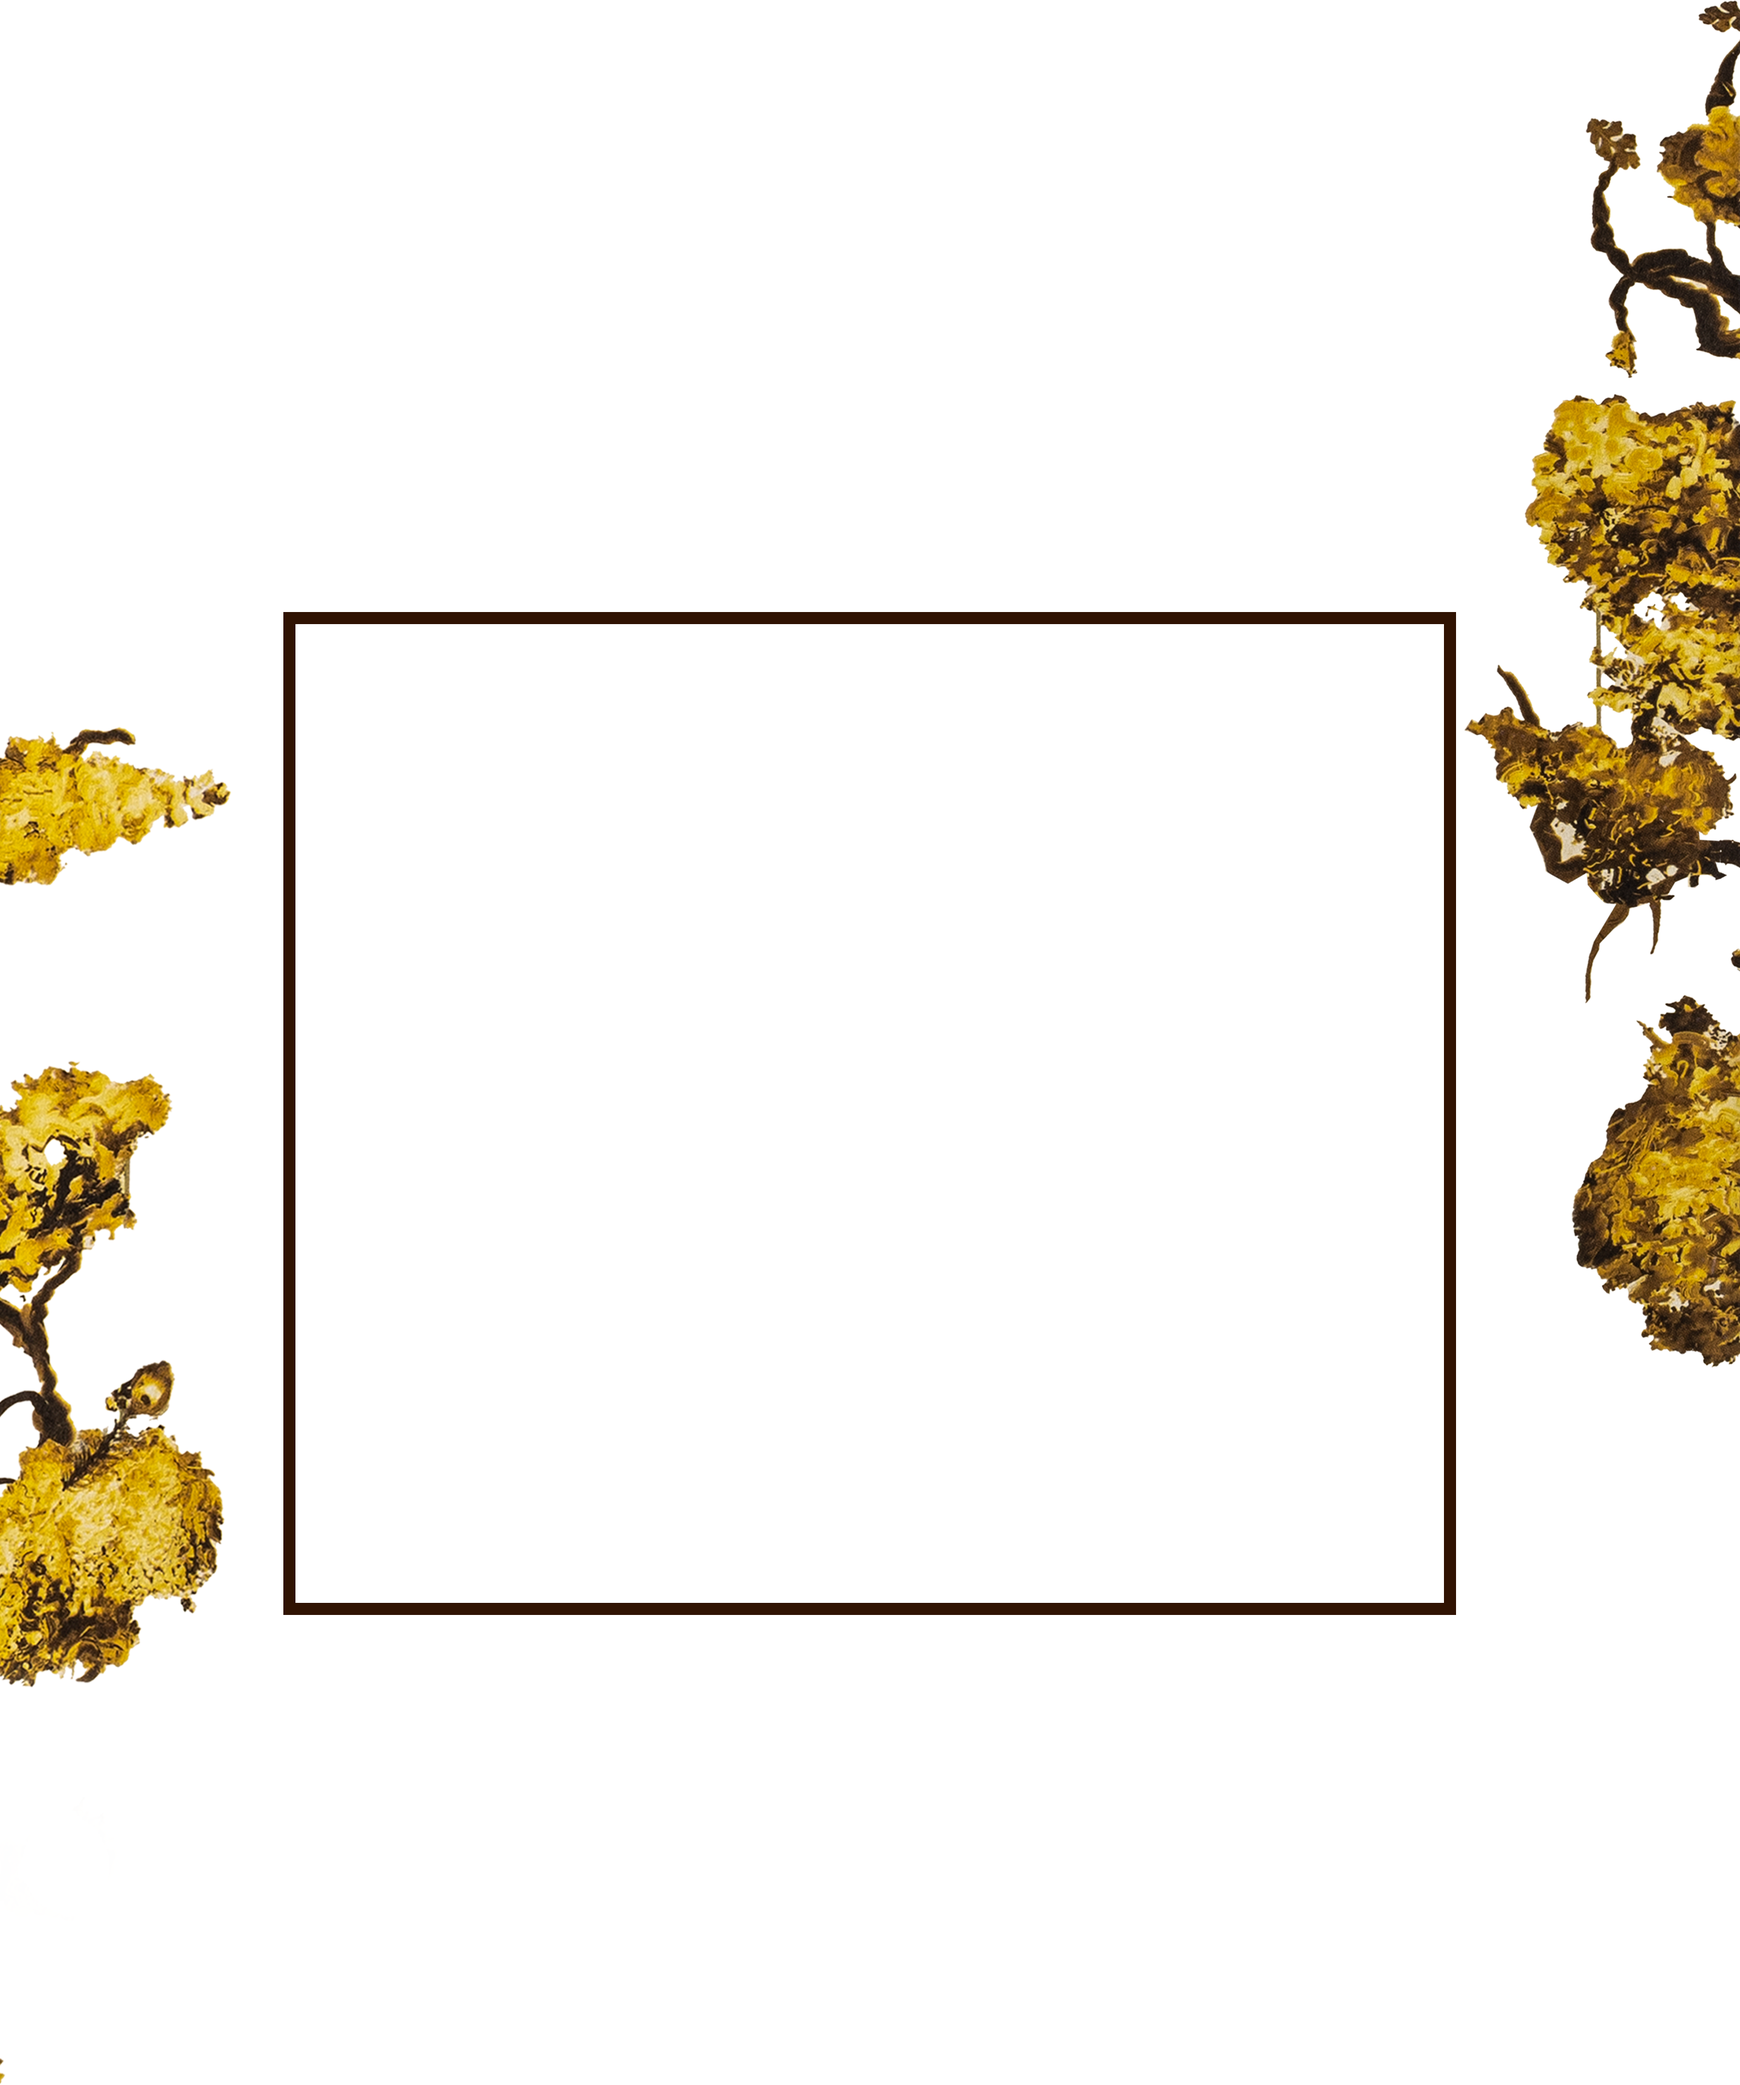
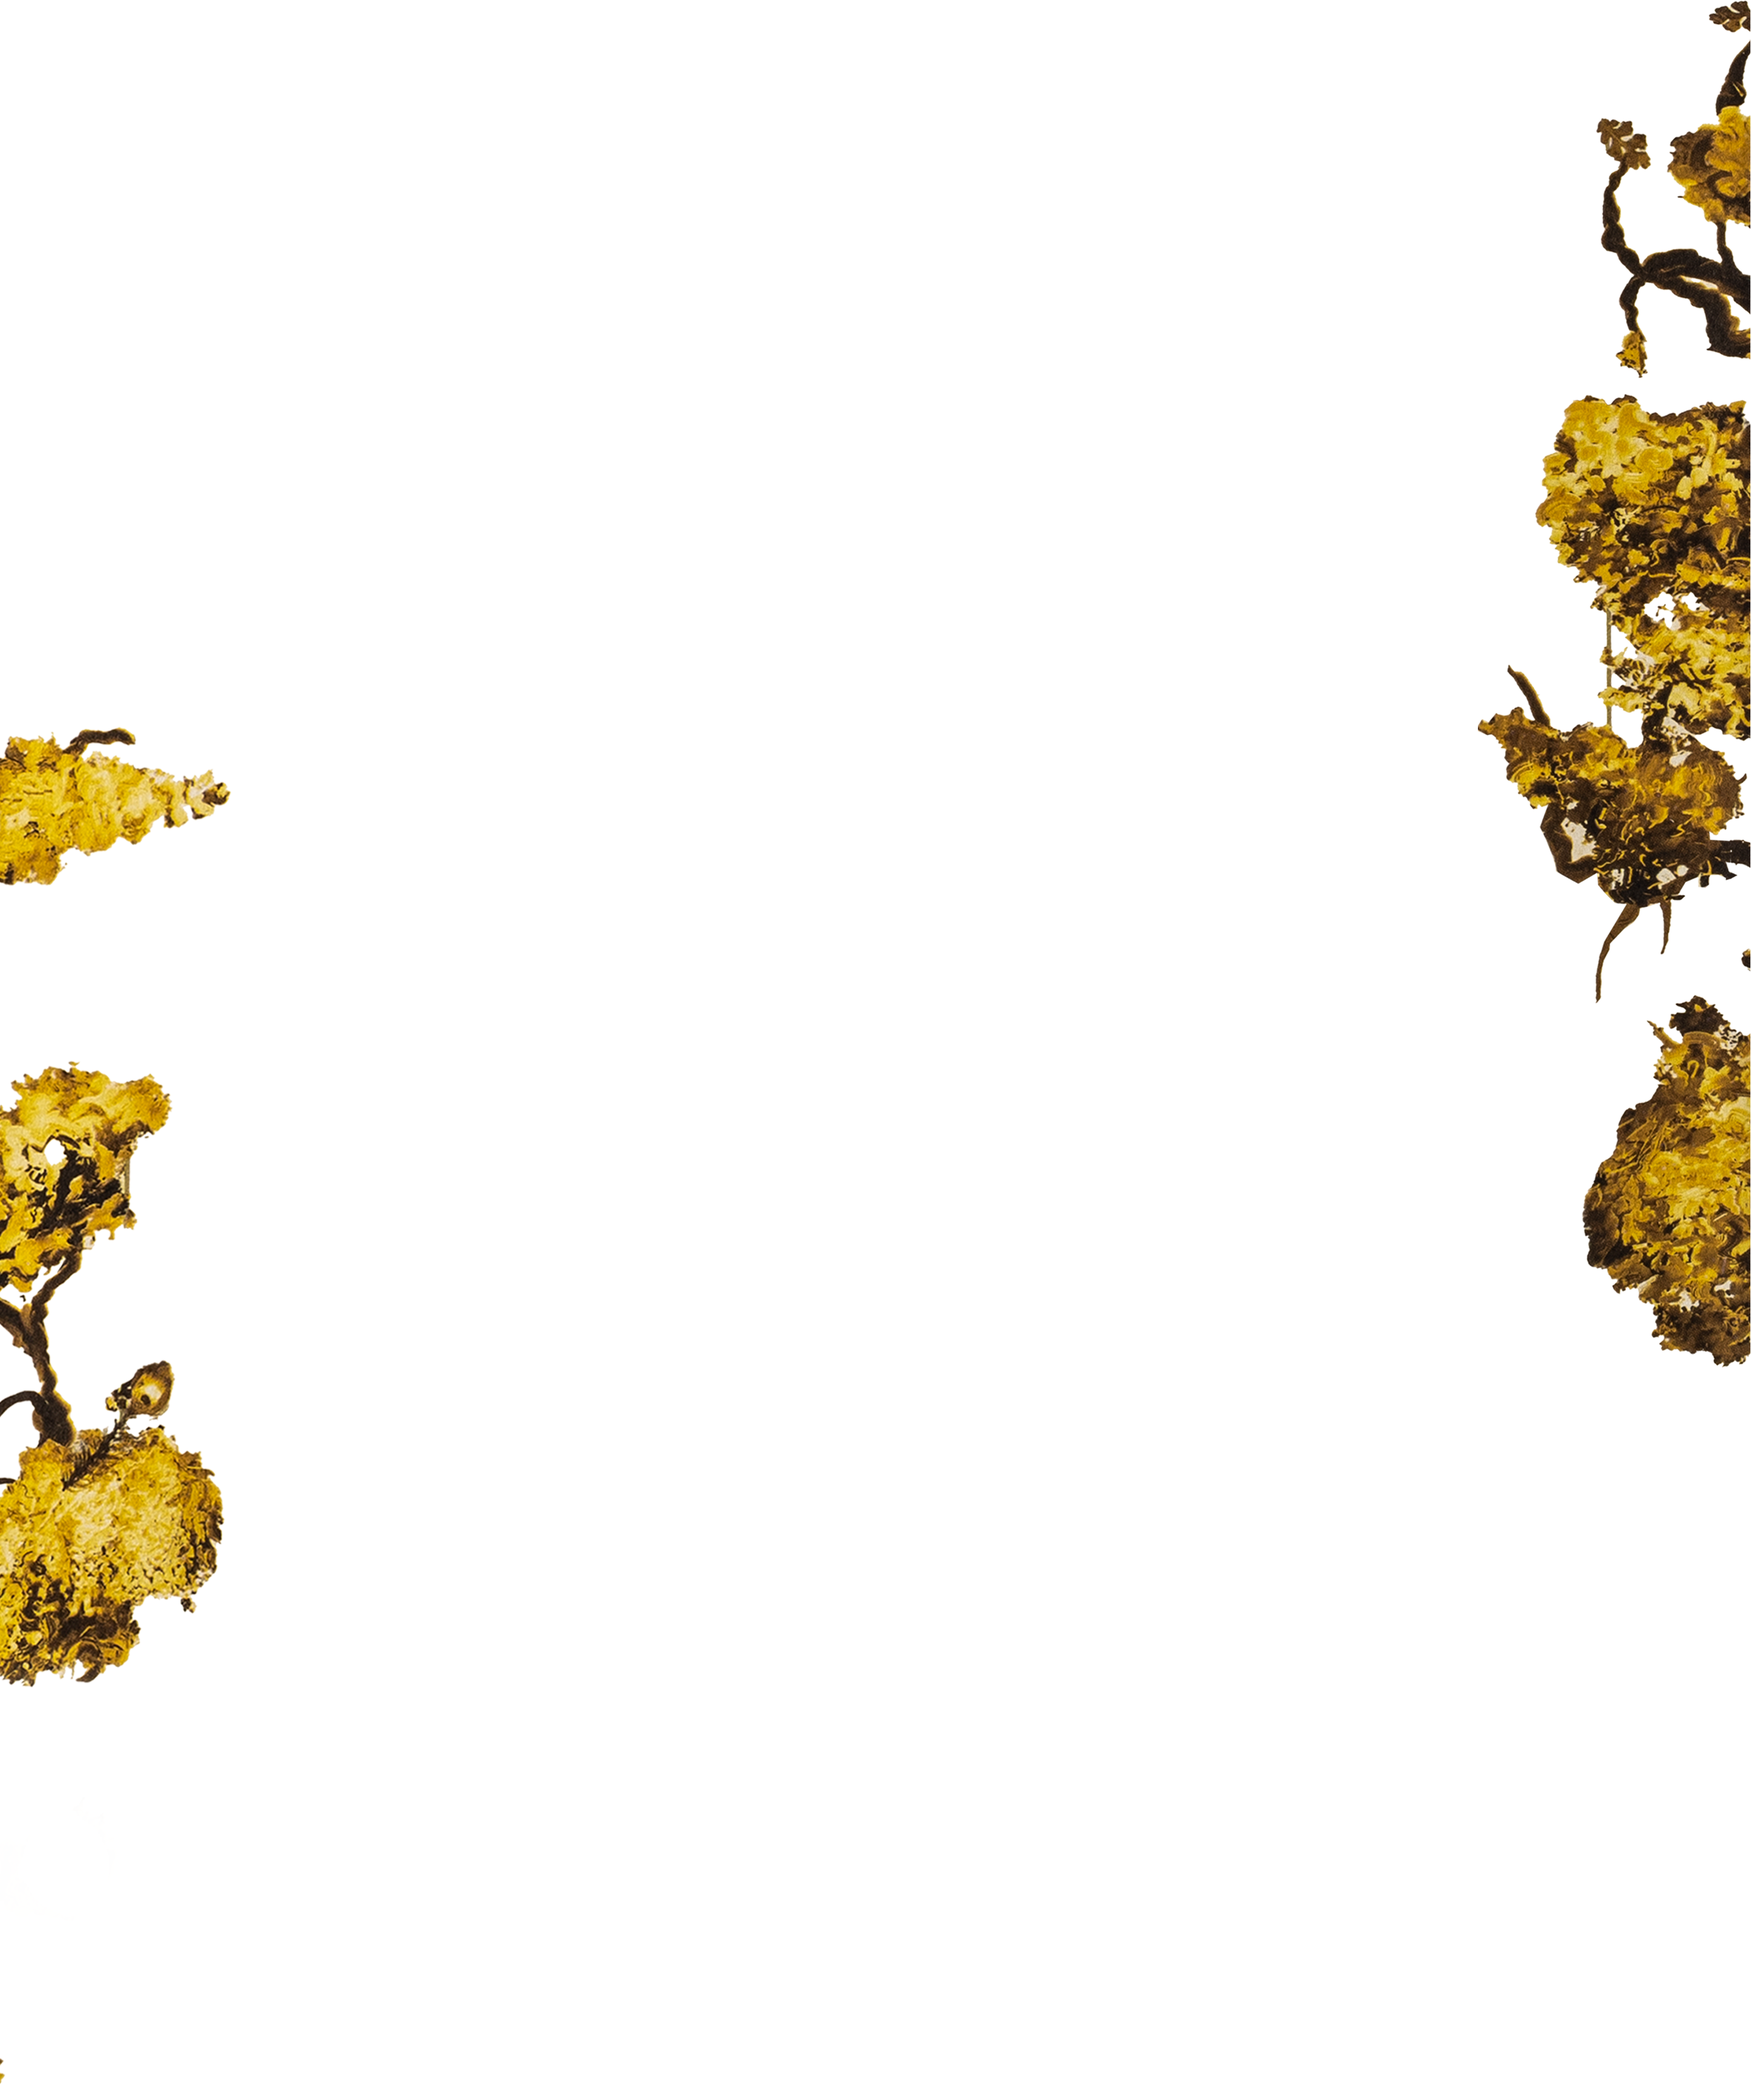
fix reponsive

diff --git a/style.css b/style.css
@@ -162,11 +162,14 @@ body{
 }
 .item-section-10-bottom {
     display: flex;
-    width: 900px;
+    width: 1000px;
     flex-direction: column;
+    border: 8px solid #382312;
+    padding: 100px;
 }
 .item-section-10-bottom p{
     font-size: 35px;
+    text-align: justify;
     justify-items: center;
     padding: 0 !important;
     color: #382312;
@@ -299,6 +302,8 @@ body{
     }
     .item-section-10-bottom{
         transform: translateY(-665px) !important;
+        padding: 15px !important;
+        border: 2px solid #382312;
     }
     .img-section-bottom{
         width: 50%;
